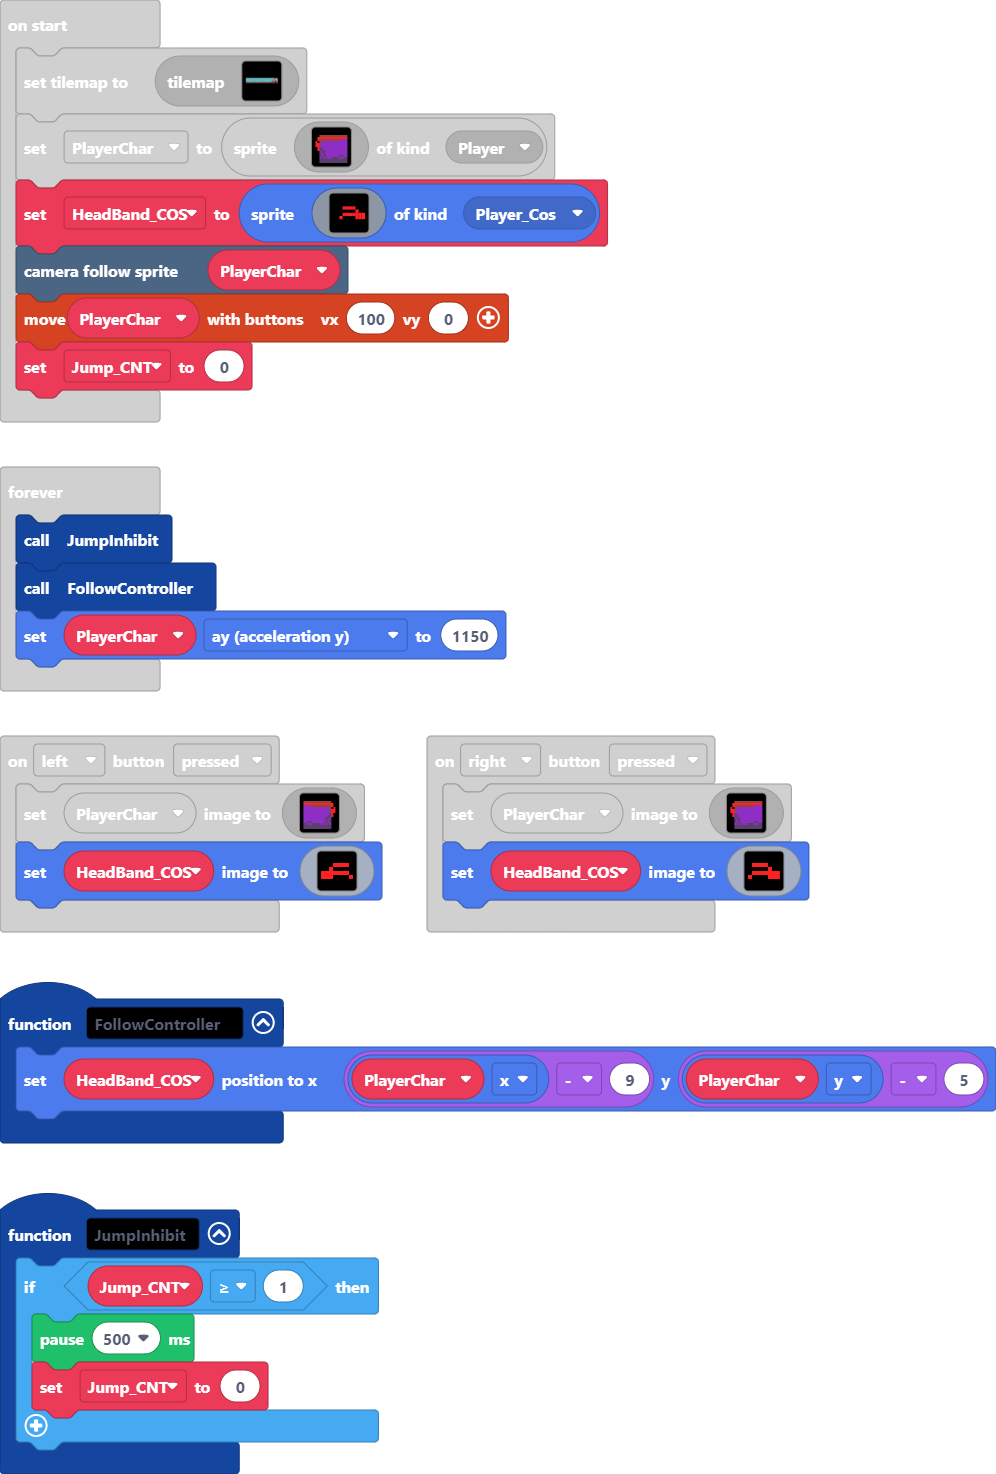
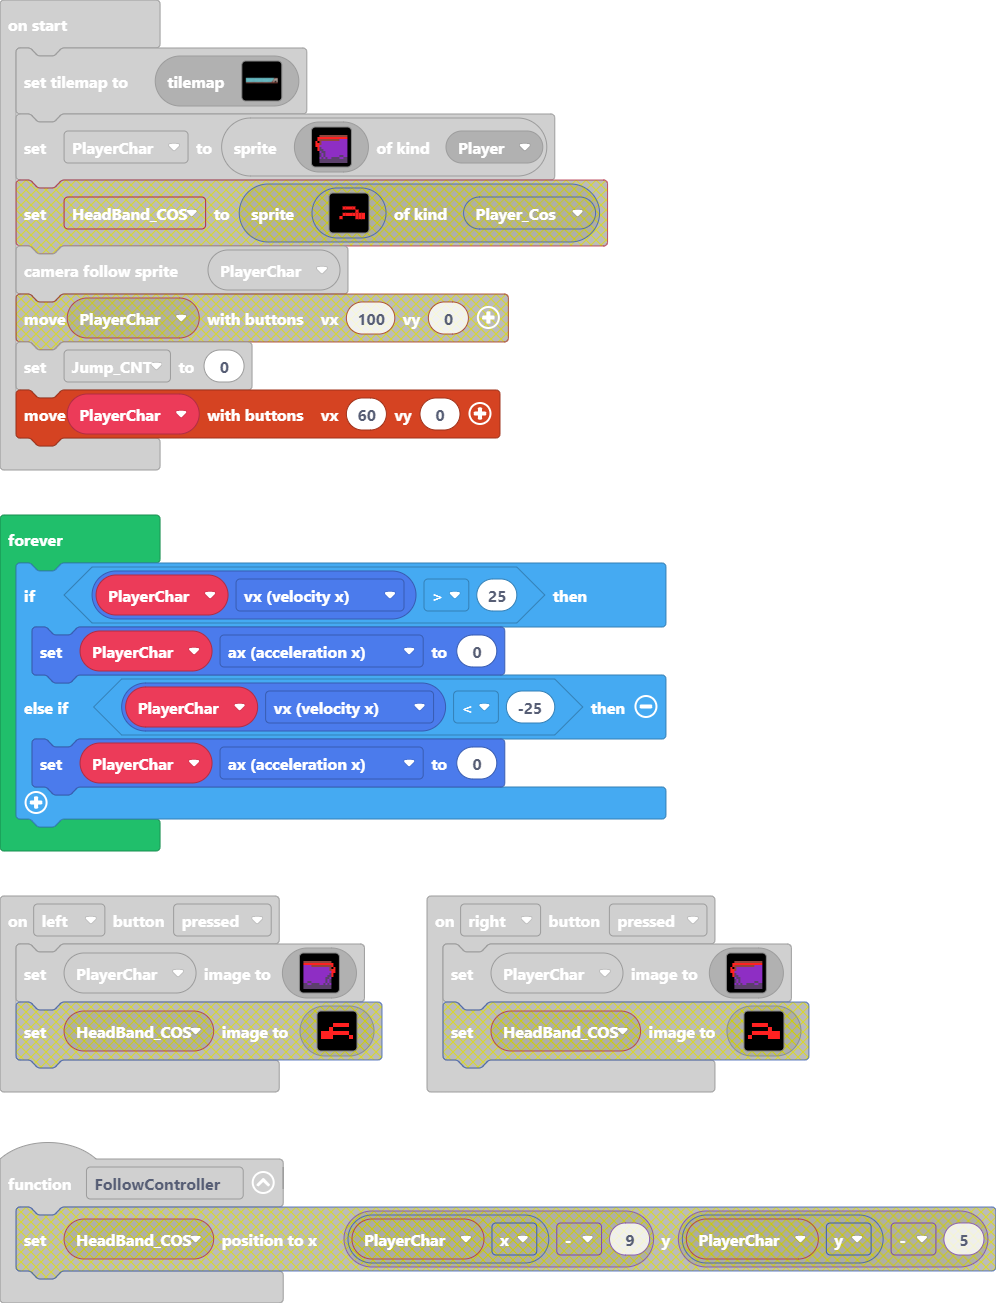
Update main.blocks, main.ts

diff --git a/main.ts b/main.ts
@@ -1,5 +1,6 @@
 namespace SpriteKind {
     export const Player_Cos = SpriteKind.create()
+    export const Image_Scene = SpriteKind.create()
 }
 controller.up.onEvent(ControllerButtonEvent.Pressed, function () {
     if (Jump_CNT == 0) {
@@ -32,16 +33,6 @@ controller.left.onEvent(ControllerButtonEvent.Pressed, function () {
         c c c c c c c c c c c c c c . . 
         c c c c c c c c c c c c c c . . 
         `)
-    HeadBand_COS.setImage(img`
-        . . . . . . . . 
-        . . . . . . . . 
-        . . . 2 2 2 2 . 
-        . . 2 . . . . . 
-        2 2 2 2 2 2 2 . 
-        2 2 2 . . . . 2 
-        . . . . . . . . 
-        . . . . . . . . 
-        `)
 })
 controller.right.onEvent(ControllerButtonEvent.Pressed, function () {
     PlayerChar.setImage(img`
@@ -62,22 +53,11 @@ controller.right.onEvent(ControllerButtonEvent.Pressed, function () {
         . . c c c c c c c c c c c c c c 
         . . c c c c c c c c c c c c c c 
         `)
-    HeadBand_COS.setImage(img`
-        . . . . . . . . 
-        . . . . . . . . 
-        . 2 2 2 2 . . . 
-        . . . . . 2 . . 
-        . 2 2 2 2 2 2 2 
-        2 . . . . 2 2 2 
-        . . . . . . . . 
-        . . . . . . . . 
-        `)
 })
 function FollowController () {
-    HeadBand_COS.setPosition(PlayerChar.x - 9, PlayerChar.y - 5)
+	
 }
 let Jump_CNT = 0
-let HeadBand_COS: Sprite = null
 let PlayerChar: Sprite = null
 tiles.setCurrentTilemap(tilemap`BeginnerLvl`)
 PlayerChar = sprites.create(img`
@@ -98,21 +78,18 @@ PlayerChar = sprites.create(img`
     . . c c c c c c c c c c c c c c 
     . . c c c c c c c c c c c c c c 
     `, SpriteKind.Player)
-HeadBand_COS = sprites.create(img`
-    . . . . . . . . . . 
-    . . . . . . . . . . 
-    . . . 2 2 2 2 . . . 
-    . . . . . . . 2 . . 
-    . . . 2 2 2 2 2 2 2 
-    . . 2 . . . . 2 2 2 
-    . . . . . . . . . . 
-    . . . . . . . . . . 
-    `, SpriteKind.Player_Cos)
 scene.cameraFollowSprite(PlayerChar)
-controller.moveSprite(PlayerChar, 100, 0)
 Jump_CNT = 0
+controller.moveSprite(PlayerChar, 60, 0)
 forever(function () {
     JumpInhibit()
     FollowController()
     PlayerChar.ay = 1150
+})
+forever(function () {
+    if (PlayerChar.vx > 25) {
+        PlayerChar.ax = 0
+    } else if (PlayerChar.vx < -25) {
+        PlayerChar.ax = 0
+    }
 })
